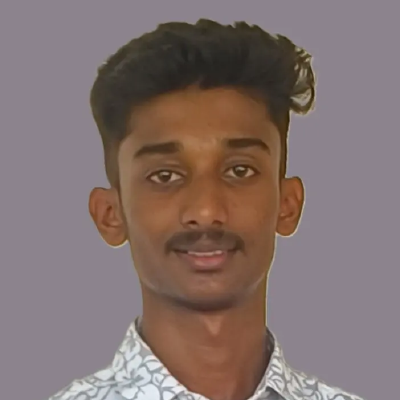
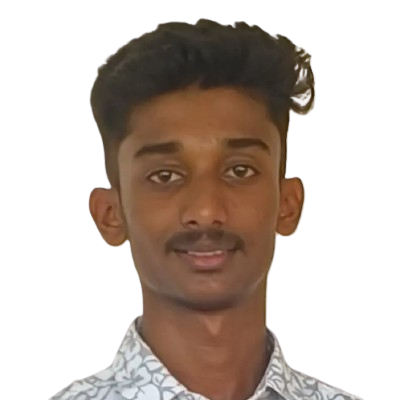
"responsive meet-the-team ui"

diff --git a/Frontend/src/app/info/page.js b/Frontend/src/app/info/page.js
@@ -554,7 +554,7 @@ const TeamPage = () => {
                       <div className="pt-4">
                         <div className="inline-flex items-center gap-2 px-6 py-3 bg-gradient-to-r from-cyan-600/20 to-purple-600/20 border border-cyan-400/50 rounded-lg font-mono text-cyan-300 group-hover:from-cyan-500/30 group-hover:to-purple-500/30 group-hover:border-cyan-300 group-hover:text-white transition-all duration-300">
                           <Code className="w-5 h-5" />
-                          <span className="tracking-wider">INITIALIZE_CONNECTION</span>
+                          <span className="">INITIALIZE_CONNECTION</span>
                           <ExternalLink className="w-4 h-4 opacity-60 group-hover:opacity-100 transition-opacity duration-300" />
                         </div>
                       </div>
@@ -577,20 +577,21 @@ const TeamPage = () => {
             </div>
           </div>
         </section>
-         <footer className="relative z-10 border-t border-cyan-500/30 bg-gradient-to-r from-gray-900/95 via-black/95 to-gray-900/95 backdrop-blur-xl">
-        <div className="container mx-auto px-6 py-8">
-          <div className="text-center space-y-6">
+
+      <footer className="relative z-10 border-t border-cyan-500/30 bg-gradient-to-r from-gray-900/95 via-black/95 to-gray-900/95 backdrop-blur-xl">
+        <div className="container mx-auto px-4 sm:px-6 py-8">
+          <div className="flex flex-col gap-8 md:gap-10 lg:gap-12 text-center items-center">
             {/* Social Media Links */}
-            <div className="flex justify-center items-center gap-6">
+            <div className="w-full flex flex-col sm:flex-row justify-center items-center gap-4 sm:gap-6 flex-wrap">
               {/* SAMCA Instagram */}
               <a 
                 href="https://www.instagram.com/samca_nitte_mca?igsh=MXVmYzcwOTloNm9nZw%3D%3D&utm_source=qr" 
                 target="_blank" 
                 rel="noopener noreferrer"
-                className="group flex items-center gap-2 px-4 py-2 bg-gradient-to-r from-pink-600/20 to-purple-600/20 border border-pink-500/40 rounded-lg hover:from-pink-500/30 hover:to-purple-500/30 hover:border-pink-400/60 transition-all duration-300 hover:scale-105"
+                className="group flex items-center gap-2 px-4 py-2 mb-2 sm:mb-0 bg-gradient-to-r from-pink-600/20 to-purple-600/20 border border-pink-500/40 rounded-lg hover:from-pink-500/30 hover:to-purple-500/30 hover:border-pink-400/60 transition-all duration-300 hover:scale-105 text-sm sm:text-base"
               >
                 <Instagram className="w-5 h-5 text-pink-400 group-hover:text-pink-300" />
-                <span className="text-pink-300 font-mono text-sm group-hover:text-white">SAMCA</span>
+                <span className="text-pink-300 font-mono group-hover:text-white">SAMCA</span>
               </a>
 
               {/* MCA.Fest Instagram */}
@@ -598,10 +599,10 @@ const TeamPage = () => {
                 href="https://www.instagram.com/semaphore.25?igsh=MW5mbmhtMXF5bGNhcg%3D%3D&utm_source=qr" 
                 target="_blank" 
                 rel="noopener noreferrer"
-                className="group flex items-center gap-2 px-4 py-2 bg-gradient-to-r from-purple-600/20 to-pink-600/20 border border-purple-500/40 rounded-lg hover:from-purple-500/30 hover:to-pink-500/30 hover:border-purple-400/60 transition-all duration-300 hover:scale-105"
+                className="group flex items-center gap-2 px-4 py-2 mb-2 sm:mb-0 bg-gradient-to-r from-purple-600/20 to-pink-600/20 border border-purple-500/40 rounded-lg hover:from-purple-500/30 hover:to-pink-500/30 hover:border-purple-400/60 transition-all duration-300 hover:scale-105 text-sm sm:text-base"
               >
                 <Instagram className="w-5 h-5 text-purple-400 group-hover:text-purple-300" />
-                <span className="text-purple-300 font-mono text-sm group-hover:text-white">SEMAPHORE.25</span>
+                <span className="text-purple-300 font-mono group-hover:text-white">SEMAPHORE.25</span>
               </a>
 
               {/* SAMCA YouTube */}
@@ -609,22 +610,22 @@ const TeamPage = () => {
                 href="https://www.youtube.com/@SAMCANMAMIT" 
                 target="_blank" 
                 rel="noopener noreferrer"
-                className="group flex items-center gap-2 px-4 py-2 bg-gradient-to-r from-red-600/20 to-orange-600/20 border border-red-500/40 rounded-lg hover:from-red-500/30 hover:to-orange-500/30 hover:border-red-400/60 transition-all duration-300 hover:scale-105"
+                className="group flex items-center gap-2 px-4 py-2 bg-gradient-to-r from-red-600/20 to-orange-600/20 border border-red-500/40 rounded-lg hover:from-red-500/30 hover:to-orange-500/30 hover:border-red-400/60 transition-all duration-300 hover:scale-105 text-sm sm:text-base"
               >
                 <Youtube className="w-5 h-5 text-red-400 group-hover:text-red-300" />
-                <span className="text-red-300 font-mono text-sm group-hover:text-white">SAMCA</span>
+                <span className="text-red-300 font-mono group-hover:text-white">SAMCA</span>
               </a>
             </div>
 
             {/* Divider */}
-            <div className="h-px bg-gradient-to-r from-transparent via-cyan-400/50 to-transparent"></div>
+            <div className="w-full h-px bg-gradient-to-r from-transparent via-cyan-400/50 to-transparent"></div>
 
             {/* Original Footer Content */}
-            <div>
-              <div className="text-xs text-purple-400 tracking-widest font-mono">
+            <div className="w-full flex flex-col items-center gap-2">
+              <div className="text-xs sm:text-sm text-purple-400 tracking-widest font-mono text-center">
                 CYBERPUNK_DEVELOPMENT_INTERFACE_v2K25.47 | NEURAL_LINK_ESTABLISHED
               </div>
-              <div className="text-xs text-gray-500 mt-2">
+              <div className="text-xs sm:text-sm text-gray-500 mt-2 text-center">
                 Built with dedication by the Semaphore 2K25 Development Team
               </div>
             </div>

diff --git a/Frontend/src/app/meet-the-team/page.js b/Frontend/src/app/meet-the-team/page.js
@@ -230,7 +230,7 @@ const MeetTheTeam = () => {
           {/* System Status Bar */}
           <div className="bg-gradient-to-r from-gray-900/95 via-black/95 to-gray-900/95 border border-cyan-500/40 rounded-lg p-4 mb-8 backdrop-blur-xl">
             <div className="flex flex-col md:flex-row justify-between items-center gap-4">
-              <div className="flex items-center gap-4">
+              <div className="md:flex space-y-2 items-center gap-4">
                 <div className="flex items-center gap-2">
                   <div className="w-3 h-3 bg-green-400 rounded-full animate-pulse"></div>
                   <span className="font-mono text-green-400 text-sm">DEVELOPMENT_TEAM://ACTIVE</span>
@@ -264,7 +264,7 @@ const MeetTheTeam = () => {
                 MEET_THE_DEVELOPMENT_TEAM
               </h1>
             </GlitchBurst>
-            <p className="text-xl text-gray-300 font-mono tracking-wider">
+            <p className="text-xs md:text-xl text-gray-300 font-mono tracking-wider ">
               &gt; ARCHITECTS_OF_THE_CYBERPUNK_REALITY &lt;
             </p>
             <div className="mt-4 h-px bg-gradient-to-r from-transparent via-cyan-400 to-transparent opacity-60"></div>
